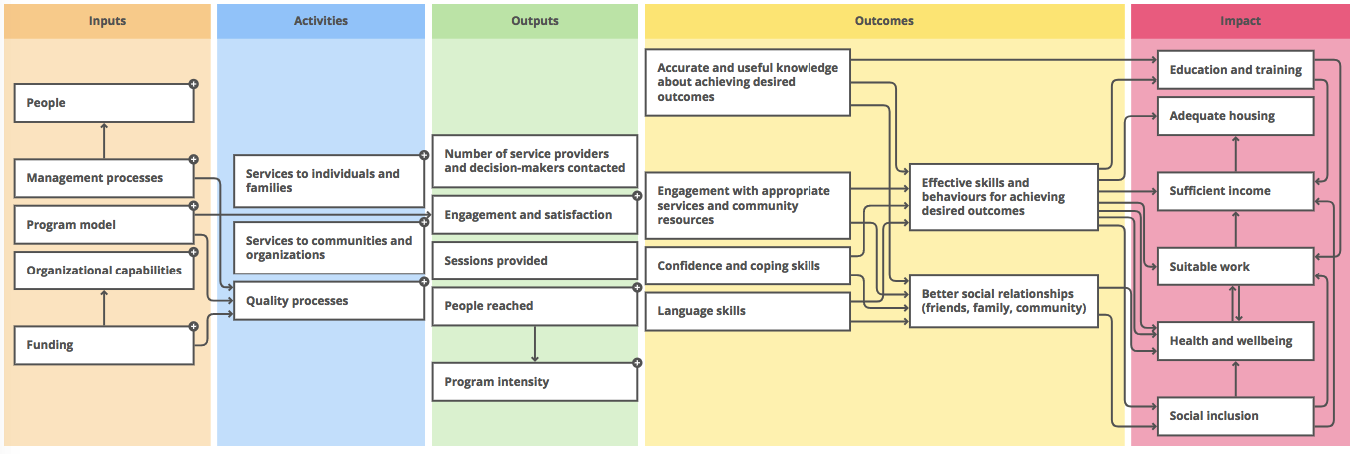
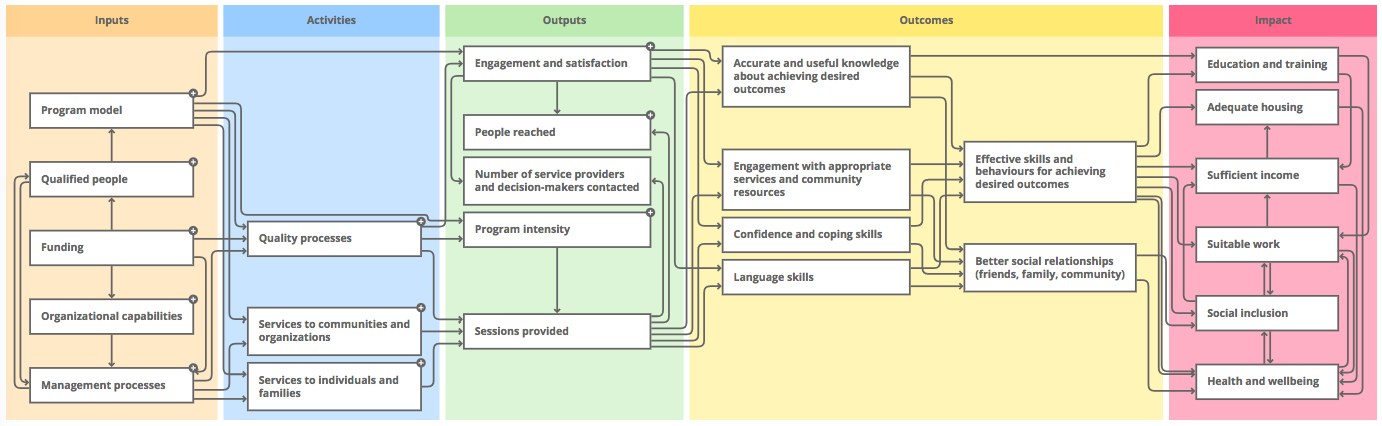
Fixed links and wording and added new image for OCASI logic model page

diff --git a/sis_sites/templates/sis_sites/ocasi/create_logic_model.html b/sis_sites/templates/sis_sites/ocasi/create_logic_model.html
@@ -30,7 +30,7 @@
                 <p>
                 SIS includes an exciting new tool to help you develop a logic model for each of the programs you want to evaluate. Simply answer the set of questions contained
                 in <a href="https://logicaloutcomes.net/forms/index.php/685892?newtest=Y">Create your program logic model</a> and print your results as a pdf. Use these results to edit
-                the <a href="http://evaluationplanningtool.org/model/mohhbjadadaccccbffa" target="_blank">OCASI SIS Program Logic Model</a>, and discover all the indicators you need to measure your program's impact.
+                the <a href="http://evaluationplanningtool.org/model/moeabjacccabcgahcfk" target="_blank">OCASI SIS Program Logic Model</a>, and discover all the indicators you need to measure your program's impact.
                 </p>
 
                 <p>
@@ -95,7 +95,7 @@
                 Activities and processes
             </div>
             <div class="panel-body">
-                <em>Activities and processes are what your program does. It includes the activities that clients actually see as well as the underlying processes like monitoring and quality control.</em>
+                <em>Activities and processes are what your program does. They include the activities that clients actually see as well as the underlying processes like monitoring and quality control.</em>
                 <br>
                 <br>
                 <a href="{% url 'ocasi_registry' %}?col=OCASI&io=Program+activities" target="_blank">
